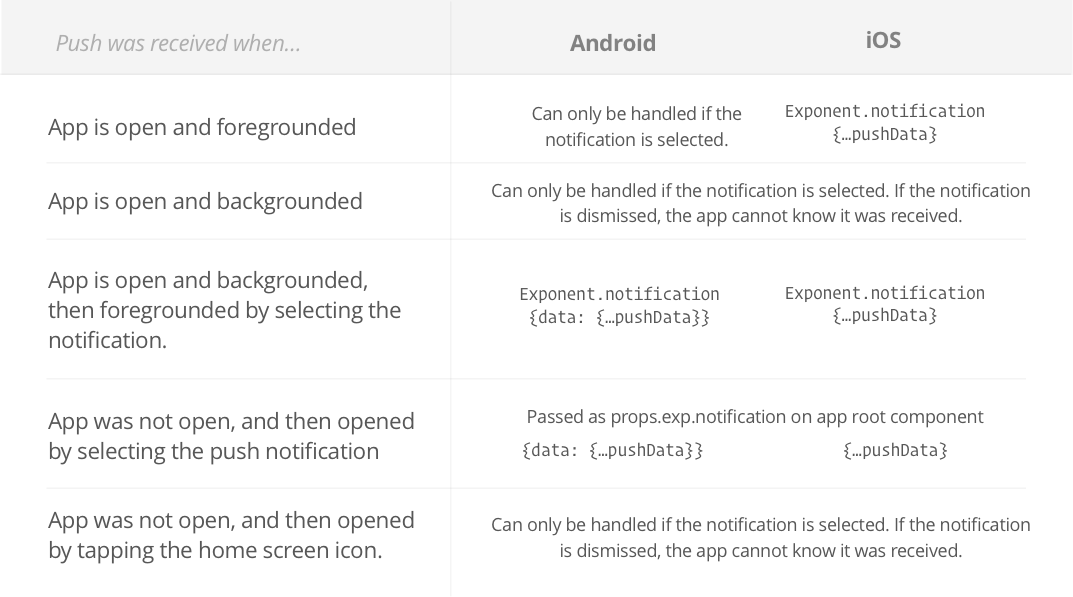
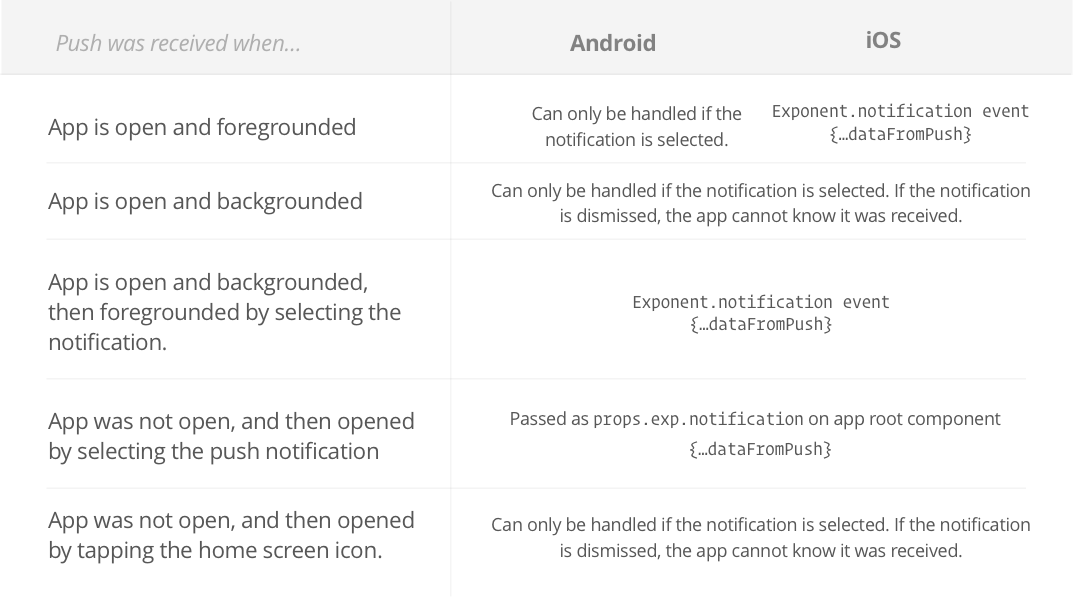
Fix push notifs docs
fbshipit-source-id: f016b10

diff --git a/versions/v7.0.0/guides/push-notifications.rst b/versions/v7.0.0/guides/push-notifications.rst
@@ -158,11 +158,7 @@ this is done.
     }
 
     _handleNotification = (notification) => {
-      // In SDK 7, the payload we receive on iOS is just {...pushData} rather
-      // than {data: pushData}, this will be fixed in SDK 8!
-      const data = notification.data ? notification.data : notification;
-
-      this.setState({notificationData: data});
+      this.setState({notificationData: notification});
     };
 
     render() {
